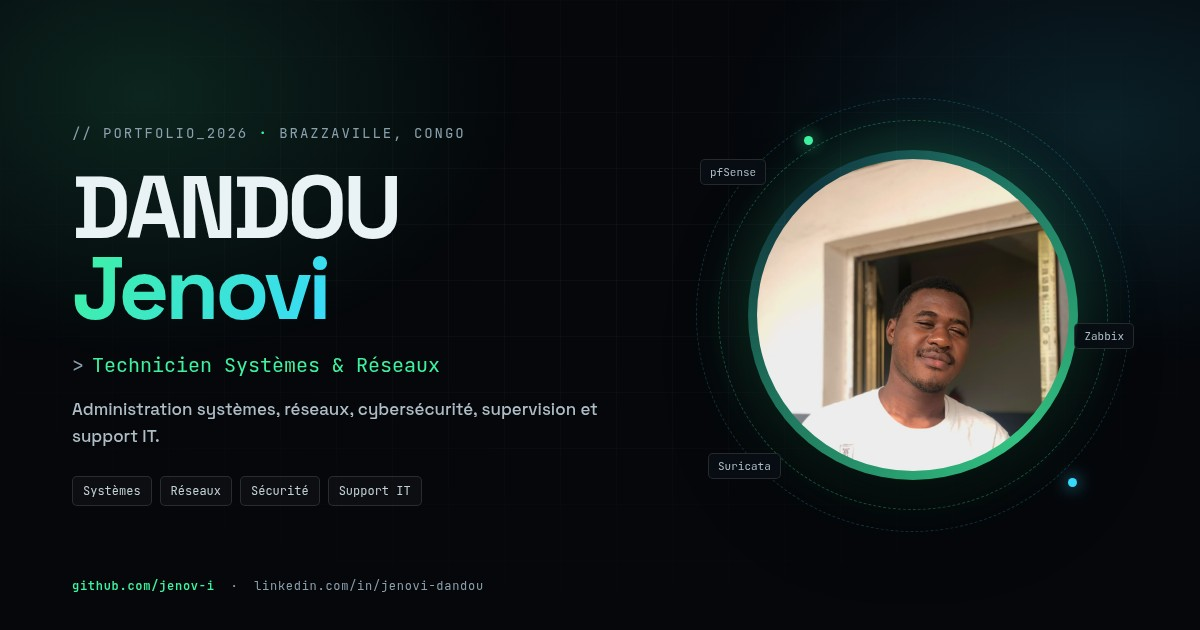
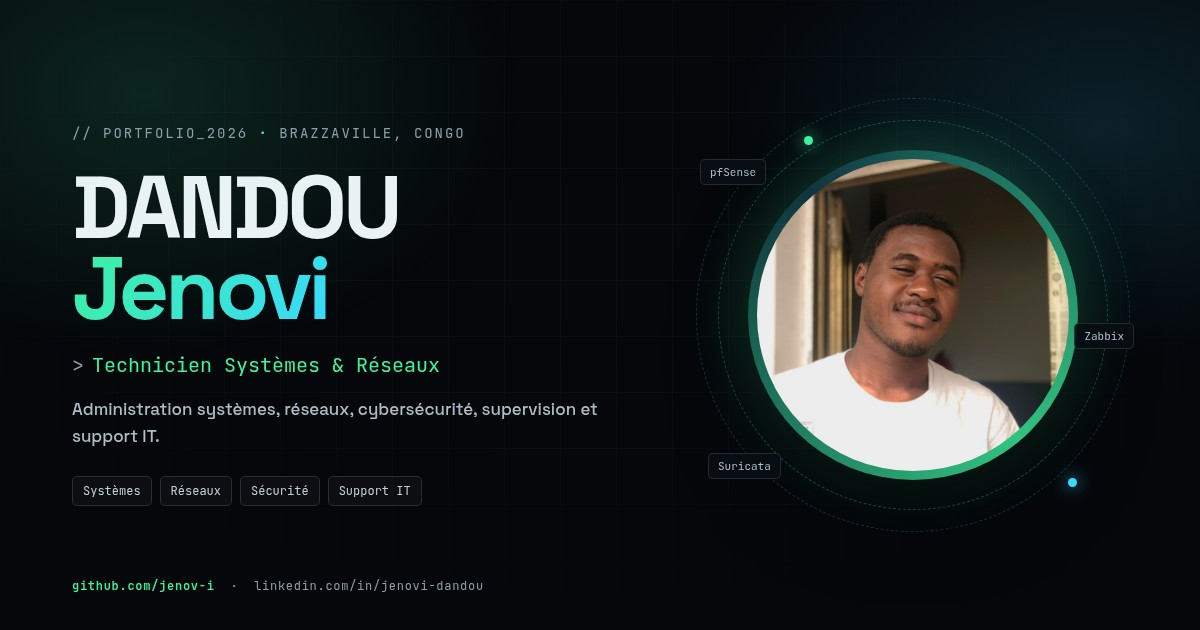
Recadrage du portrait pour un meilleur centrage

Changed region(s): [[0.6167, 0.2413, 0.8942, 0.6937]]

diff --git a/index.html b/index.html
@@ -16,7 +16,7 @@
   <meta property="og:title" content="DANDOU Jenovi — Systèmes, Réseaux &amp; Cybersécurité">
   <meta property="og:description" content="Technicien Systèmes &amp; Réseaux à Brazzaville. Infrastructures, supervision, sécurité et support IT.">
   <meta property="og:url" content="https://jenov-i.github.io/">
-  <meta property="og:image" content="https://jenov-i.github.io/assets/img/og-image.jpg">
+  <meta property="og:image" content="https://jenov-i.github.io/assets/img/og-image.jpg?v=20261111-3">
   <meta property="og:image:width" content="1200">
   <meta property="og:image:height" content="630">
   <meta property="og:image:alt" content="Portrait de DANDOU Jenovi, technicien systèmes et réseaux à Brazzaville">
@@ -25,7 +25,7 @@
   <meta name="twitter:card" content="summary_large_image">
   <meta name="twitter:title" content="DANDOU Jenovi — Systèmes, Réseaux &amp; Cybersécurité">
   <meta name="twitter:description" content="Technicien Systèmes &amp; Réseaux à Brazzaville. Infrastructures, supervision, sécurité et support IT.">
-  <meta name="twitter:image" content="https://jenov-i.github.io/assets/img/og-image.jpg">
+  <meta name="twitter:image" content="https://jenov-i.github.io/assets/img/og-image.jpg?v=20261111-3">
   <link rel="canonical" href="https://jenov-i.github.io/">
 
   <link rel="icon" href="assets/img/favicon.svg" type="image/svg+xml">
@@ -33,7 +33,7 @@
   <link rel="preconnect" href="https://fonts.googleapis.com">
   <link rel="preconnect" href="https://fonts.gstatic.com" crossorigin>
   <link href="https://fonts.googleapis.com/css2?family=JetBrains+Mono:wght@400;500;600;700&family=Space+Grotesk:wght@400;500;600;700&display=swap" rel="stylesheet">
-  <link rel="stylesheet" href="assets/css/styles.css?v=20261111-2">
+  <link rel="stylesheet" href="assets/css/styles.css?v=20261111-3">
 
   <script type="application/ld+json">
   {
@@ -144,7 +144,7 @@
           <div class="portrait-orbit orbit-1" aria-hidden="true"></div>
           <div class="portrait-orbit orbit-2" aria-hidden="true"></div>
           <div class="portrait-frame">
-            <img src="assets/img/photo.jpg" alt="Portrait de DANDOU Jenovi" width="960" height="1280" fetchpriority="high">
+            <img src="assets/img/photo.jpg?v=20261111-3" alt="Portrait de DANDOU Jenovi" width="760" height="760" fetchpriority="high">
             <div class="portrait-scan" aria-hidden="true"></div>
           </div>
           <div class="portrait-tag mono">
@@ -609,8 +609,8 @@
 
   <div class="toast mono" id="toast" role="status" aria-live="polite"></div>
 
-  <script src="assets/js/i18n.js?v=20261111-2"></script>
-  <script src="assets/js/projects.js?v=20261111-2"></script>
-  <script src="assets/js/main.js?v=20261111-2"></script>
+  <script src="assets/js/i18n.js?v=20261111-3"></script>
+  <script src="assets/js/projects.js?v=20261111-3"></script>
+  <script src="assets/js/main.js?v=20261111-3"></script>
 </body>
 </html>

diff --git a/assets/css/styles.css b/assets/css/styles.css
@@ -484,7 +484,7 @@ input, select, textarea { font: inherit; }
   width: 100%;
   height: 100%;
   object-fit: cover;
-  object-position: 50% 27%;
+  object-position: 50% 50%;
   border-radius: 50%;
   filter: saturate(1.03) contrast(1.03);
 }

diff --git a/README.md b/README.md
@@ -91,7 +91,7 @@ Attributs disponibles : `data-i18n` (texte), `data-i18n-html`, `data-i18n-placeh
 ### CV et photo
 
 - Remplacer `assets/cv/CV_Jenovi_Dandou.pdf` (même nom) pour mettre le CV à jour.
-- Remplacer `assets/img/photo.jpg` par un portrait vertical ; le cadrage circulaire est en CSS.
+- Remplacer `assets/img/photo.jpg` par un portrait carré (idéalement 760×760) ; le cadrage circulaire est en CSS.
 
 ## Formulaire de contact
 
